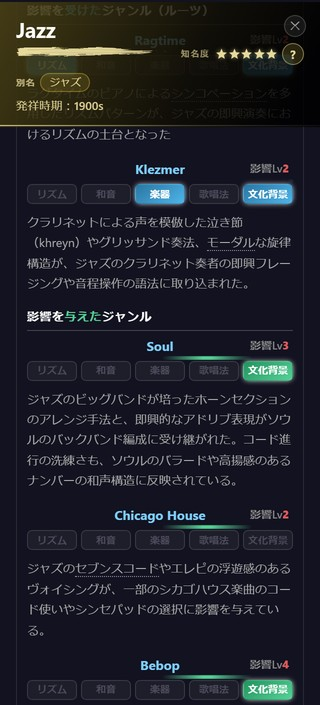
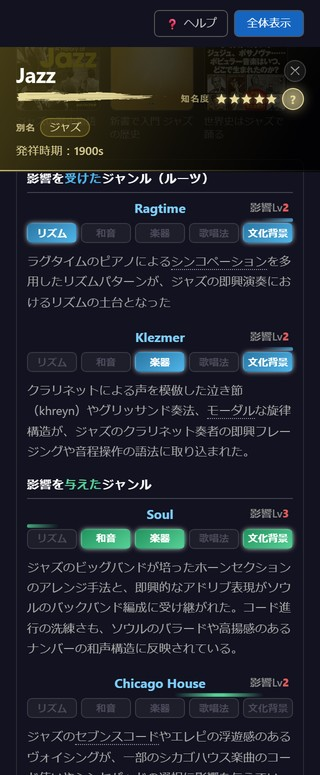
成り立ち・関連書籍・影響ジャンルの見出しを明示、読みもの表現を削除(v1.25)
チョロさんの再指摘に対応。

1. 「成り立ち」の図に見出しが写っておらず、何の画像か分からなかった
   ため、見出しごと写るよう撮り直し。あわせて「成り立ち」と
   「関連する書籍」を2枚の図・2つの説明に分割（1枚では見出しと書影を
   両方きれいに収めきれないため）
2. 「影響を受けたジャンル」の見出しがJazzのヘッダーの下に隠れて
   見えなかった問題を解消。scrollIntoViewの大まかな位置合わせでは
   ズレが出ていたため、getBoundingClientRectで実際の描画位置を測って
   補正する方式に直した（tools/figs/panel_detail_figs3.js）。
   「影響を受けたジャンル」「影響を与えたジャンル」両方の見出しが
   1枚に収まるよう、縦方向を延長
3. 「〜を説明する読みものです」という言い回しをすべて削除し、
   「〜を説明しています」に統一

diff --git a/docs/manual.html b/docs/manual.html
@@ -468,7 +468,7 @@
          出ている日付（「◯◯ ジャンル・2026/8/30」）と見比べれば分かる。 -->
     <!-- 辞典そのものの売り文句。何をする道具なのかを、読む前に一言で伝える -->
     <div class="tagline">ふらっと、音楽の旅に出る</div>
-    <div class="doc-ver">ガイド <b>v1.24</b> ・ 2026-09-05 更新</div>
+    <div class="doc-ver">ガイド <b>v1.25</b> ・ 2026-09-05 更新</div>
   </div>
   <p class="lede">
     <strong>「自分の好きな音楽って、どこから来たんだろう」</strong>——
@@ -718,8 +718,8 @@
       <li><b>動画</b> … 代表曲がその場で流れます（スマホでは、はじめの1回は自分で再生ボタンを押す必要があります）。
         自動再生してほしくない場合は、動画の右上にある「自動再生」のスライドボタンをオフにします</li>
       <li><b>代表曲・アーティスト</b> … 曲名を押すと、その曲の動画に切り替わります</li>
-      <li><b>音楽性・特徴</b> … 読みものです。指でなぞって下へ読み進めてください</li>
-      <li><b>成り立ち</b> … こちらも読みもの。ジャンルによっては、その下に関連する書籍が並びます</li>
+      <li><b>音楽性・特徴</b> … そのジャンルの音楽的な特徴を説明しています。指でなぞって下へ読み進めてください</li>
+      <li><b>成り立ち</b> … どこで、どうやって生まれたのかを説明しています。ジャンルによっては、その下に関連する書籍が並びます</li>
       <li><b>影響を受けた／与えたジャンル</b> … 名前を押すと、そのジャンルの説明に移ります</li>
       <li><b>✎ このジャンルについて修正依頼</b> … いちばん下、影響ジャンルの一覧の
         さらに先にあります。間違いを見つけたときに使います（→ <a href="#sp-fix">9章</a>）</li>
@@ -733,7 +733,7 @@
 
     <h3>成り立ちの下にある「関連する書籍」</h3>
     <figure class="fig-panel">
-      <img src="img/pnl3_roots_books.jpg" alt="成り立ちの説明文の下に、関連する書籍が表紙つきで3冊並んでいる。">
+      <img src="img/pnl3b_books.jpg" alt="「関連する書籍」の見出しと、表紙つきの書籍が3冊並んでいる。">
       <figcaption>「成り立ち」を読み終えたところに、関連する書籍が並ぶことがあります。</figcaption>
     </figure>
     <p>「成り立ち」の文章を読み終えたところに、<b>そのジャンルをもっと詳しく知りたい方は
@@ -1320,9 +1320,9 @@
     <h3>⑥ 音楽性・特徴</h3>
     <figure class="fig-panel">
       <img src="img/pnl2a_desc.jpg" alt="音楽性・特徴の説明文。下に点線のついた言葉がいくつも出てくる。">
-      <figcaption>そのジャンルがどんな音楽なのかを説明する読みものです。</figcaption>
+      <figcaption>そのジャンルがどんな音楽なのかを説明しています。</figcaption>
     </figure>
-    <p>そのジャンルの音楽的な特徴を説明する読みものです。下にスクロールすると読めます。</p>
+    <p>そのジャンルの音楽的な特徴を説明しています。下にスクロールすると読めます。</p>
 
     <h3>⑦ 下に点線がついた言葉＝用語のふきだし</h3>
     <figure class="fig-panel">
@@ -1335,13 +1335,19 @@
       音楽用語だけでなく、地名・人名・レーベル名なども説明しています
       （→ <a href="#gloss">用語の説明について、くわしく</a>）。</p>
 
-    <h3>⑧ 成り立ち（ルーツ）・関連する書籍</h3>
+    <h3>⑧ 成り立ち（ルーツ）</h3>
     <figure class="fig-panel">
-      <img src="img/pnl3_roots_books.jpg" alt="成り立ちの説明文の下に、関連する書籍が表紙つきで3冊並んでいる。">
+      <img src="img/pnl3a_roots.jpg" alt="「成り立ち」の見出しと、そのジャンルがどこでどう生まれたかを説明する本文。">
+      <figcaption>そのジャンルが、どこで・どうやって生まれたのかを説明しています。</figcaption>
+    </figure>
+    <p>そのジャンルが<b>どこで、どうやって生まれたのか</b>を説明しています。</p>
+
+    <h3>関連する書籍</h3>
+    <figure class="fig-panel">
+      <img src="img/pnl3b_books.jpg" alt="「関連する書籍」の見出しと、表紙つきの書籍が3冊並んでいる。">
       <figcaption>「成り立ち」を読み終えたところに、関連する書籍が並ぶことがあります。</figcaption>
     </figure>
-    <p>そのジャンルが<b>どこで、どうやって生まれたのか</b>を説明する読みものです。
-      その下に、<b>そのジャンルをもっと詳しく知りたい方はAmazonでも</b>という形で、
+    <p><b>そのジャンルをもっと詳しく知りたい方はAmazonでも</b>という形で、
       関連する書籍が表紙つきで並ぶことがあります（最大3冊。ジャンルによっては出ません）。
       自動で適当に選ばれた広告ではなく、そのジャンルをピンポイントで扱った本があれば優先して選び、
       無ければその音楽の系統をより広く扱った本を選ぶという方針で、1冊ずつ人が選んで実在を

diff --git a/tools/figs/panel_detail_figs3.js b/tools/figs/panel_detail_figs3.js
@@ -1,0 +1,71 @@
+// パネル詳細図の3回目の撮り直し（2026-09-05）。
+// 前回は scrollIntoView() で大まかにスクロールしていたため、パネル上部の
+// 固定ヘッダー（#sp-header、position:sticky、高さ約125px）に見出しが
+// 隠れることがあった。今回は各見出しの offsetTop を実測し、
+// side-panel.scrollTop を直接、見出しがヘッダーの下に十分な余白を
+// 持って収まる位置に設定してから撮る。
+//
+// ・成り立ち／関連する書籍は、チョロさんの指示で2枚に分ける
+//   （1枚だと「成り立ち」の見出しごと関連書籍まで詰め込めないため）
+// ・影響を受けた／影響を与えたジャンルは、両方の見出しが306px差で
+//   近いので1枚に収める
+const 設定 = require('./設定');
+const { chromium } = require('playwright');
+const path = require('path');
+const URL = 設定.地図;
+const 出力 = 設定.出力先;
+
+(async () => {
+  const b = await chromium.launch();
+  const p = await b.newPage({ viewport: { width: 1400, height: 900 }, deviceScaleFactor: 2 });
+  await p.route('**://*.doubleclick.net/**', r => r.abort());
+  await p.route('**://*.googlesyndication.com/**', r => r.abort());
+  await p.route('**://*.googleadservices.com/**', r => r.abort());
+  await p.route('**://*.google.com/pagead/**', r => r.abort());
+  await p.route('**://*.youtube.com/api/stats/ads**', r => r.abort());
+  await p.route('**://*.youtube.com/pagead/**', r => r.abort());
+  await p.route('**://*.youtube.com/ptracking**', r => r.abort());
+  await p.goto(URL, { waitUntil: 'load', timeout: 120000 });
+  await p.waitForTimeout(6000);
+  await p.evaluate(() => {
+    const n = [...document.querySelectorAll('.node')].find(e => (e.__data__ || {}).id === 'jazz');
+    n.dispatchEvent(new MouseEvent('click', { bubbles: true }));
+  });
+  await p.waitForTimeout(12000);
+
+  const 狙う位置 = 170; // ヘッダーの下、この画面上のy座標(CSS px)に見出しの上端を持ってくる
+
+  const スクロールして撮る = async (name, targetSelector) => {
+    // 1回目：ざっくり scrollIntoView で近づける
+    await p.evaluate((sel) => {
+      const el = document.querySelector(sel);
+      if (el) el.scrollIntoView({ block: 'start' });
+    }, targetSelector);
+    await p.waitForTimeout(300);
+    // 2回目：実際に描画された位置を測り、狙う位置とのズレをscrollTopで補正する
+    // （offsetTopだけを頼りに計算すると、offsetParentのズレで誤差が出た）
+    for (let i = 0; i < 3; i++) {
+      const top = await p.evaluate((sel) => document.querySelector(sel)?.getBoundingClientRect().top, targetSelector);
+      if (top == null) { console.log('  ★ 見つからず:', targetSelector); return; }
+      const ズレ = top - 狙う位置;
+      if (Math.abs(ズレ) < 2) break;
+      await p.evaluate((d) => { document.getElementById('side-panel').scrollTop += d; }, ズレ);
+      await p.waitForTimeout(200);
+    }
+    const finalTop = await p.evaluate((sel) => document.querySelector(sel)?.getBoundingClientRect().top, targetSelector);
+    await p.screenshot({ path: path.join(出力, name + '.png') });
+    console.log('→ ' + name + '.png （見出しの実際の位置 top=' + finalTop + 'px、狙いは' + 狙う位置 + 'px）');
+  };
+
+  // ⑧-a 成り立ち（見出し＋本文）
+  await スクロールして撮る('pnl3a_roots', '#sp-roots-story-sec h4');
+
+  // ⑧-b 関連する書籍（見出し＋表紙）
+  await スクロールして撮る('pnl3b_books', '#sp-books-wrap .sp-books-title');
+
+  // ⑨ 影響を受けた／与えたジャンル（両方の見出しが入るように）
+  await スクロールして撮る('pnl4_influence', '#sp-in-sec h4');
+
+  await p.close();
+  await b.close();
+})();
